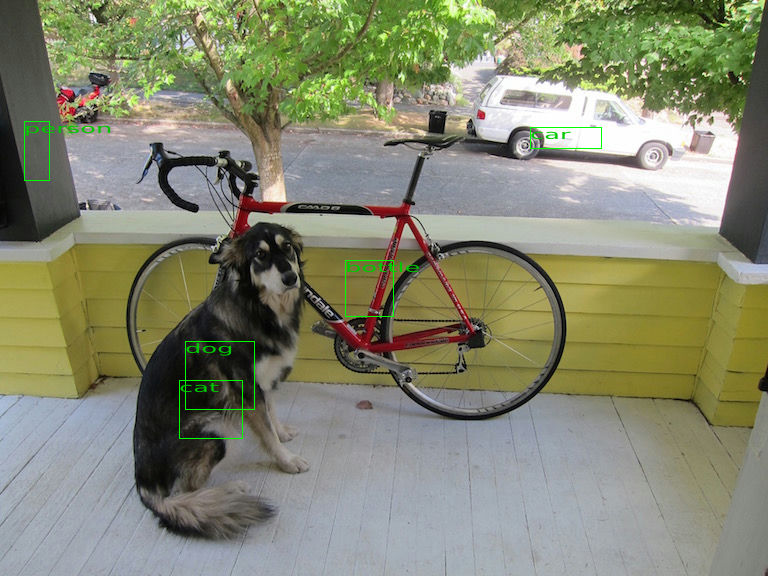
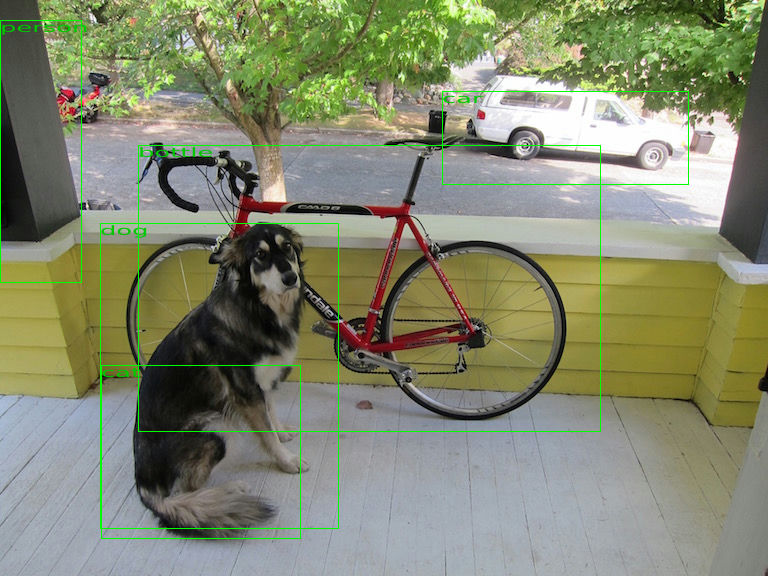
:bug: use anchor priors

diff --git a/src/lib.rs b/src/lib.rs
@@ -27,6 +27,9 @@ fn sigmoid(a: &f32) -> f32 {
 }
 
 const SIZE: usize = 416;
+const TINY_YOLOV2_ANCHOR_PRIORS: [f32; 10] = [
+    1.08, 1.19, 3.42, 4.41, 6.63, 11.38, 9.42, 5.11, 16.62, 10.52,
+];
 
 type ModelType = SimplePlan<TypedFact, Box<dyn TypedOp>, Graph<TypedFact, Box<dyn TypedOp>>>;
 
@@ -110,8 +113,10 @@ impl Yolo {
                     let x = (cx as f32 + sigmoid(&tx)) * 32.0 / SIZE as f32;
                     let y = (cy as f32 + sigmoid(&ty)) * 32.0 / SIZE as f32;
 
-                    let w = tw.exp() * 32.0 / SIZE as f32;
-                    let h = th.exp() * 32.0 / SIZE as f32;
+                    let w =
+                        tw.exp() * (TINY_YOLOV2_ANCHOR_PRIORS[b * 2]) * 32.0 / SIZE as f32;
+                    let h = th.exp() * (TINY_YOLOV2_ANCHOR_PRIORS[b * 2 + 1]) * 32.0
+                        / SIZE as f32;
 
                     let tc = sigmoid(&tc);
                     let mut max_prob = (0, 0.0);
@@ -137,7 +142,6 @@ impl Yolo {
                 }
             }
         }
-        let detections = merge(detections);
         let detections = nms_sort(detections);
         Ok(detections)
     }
